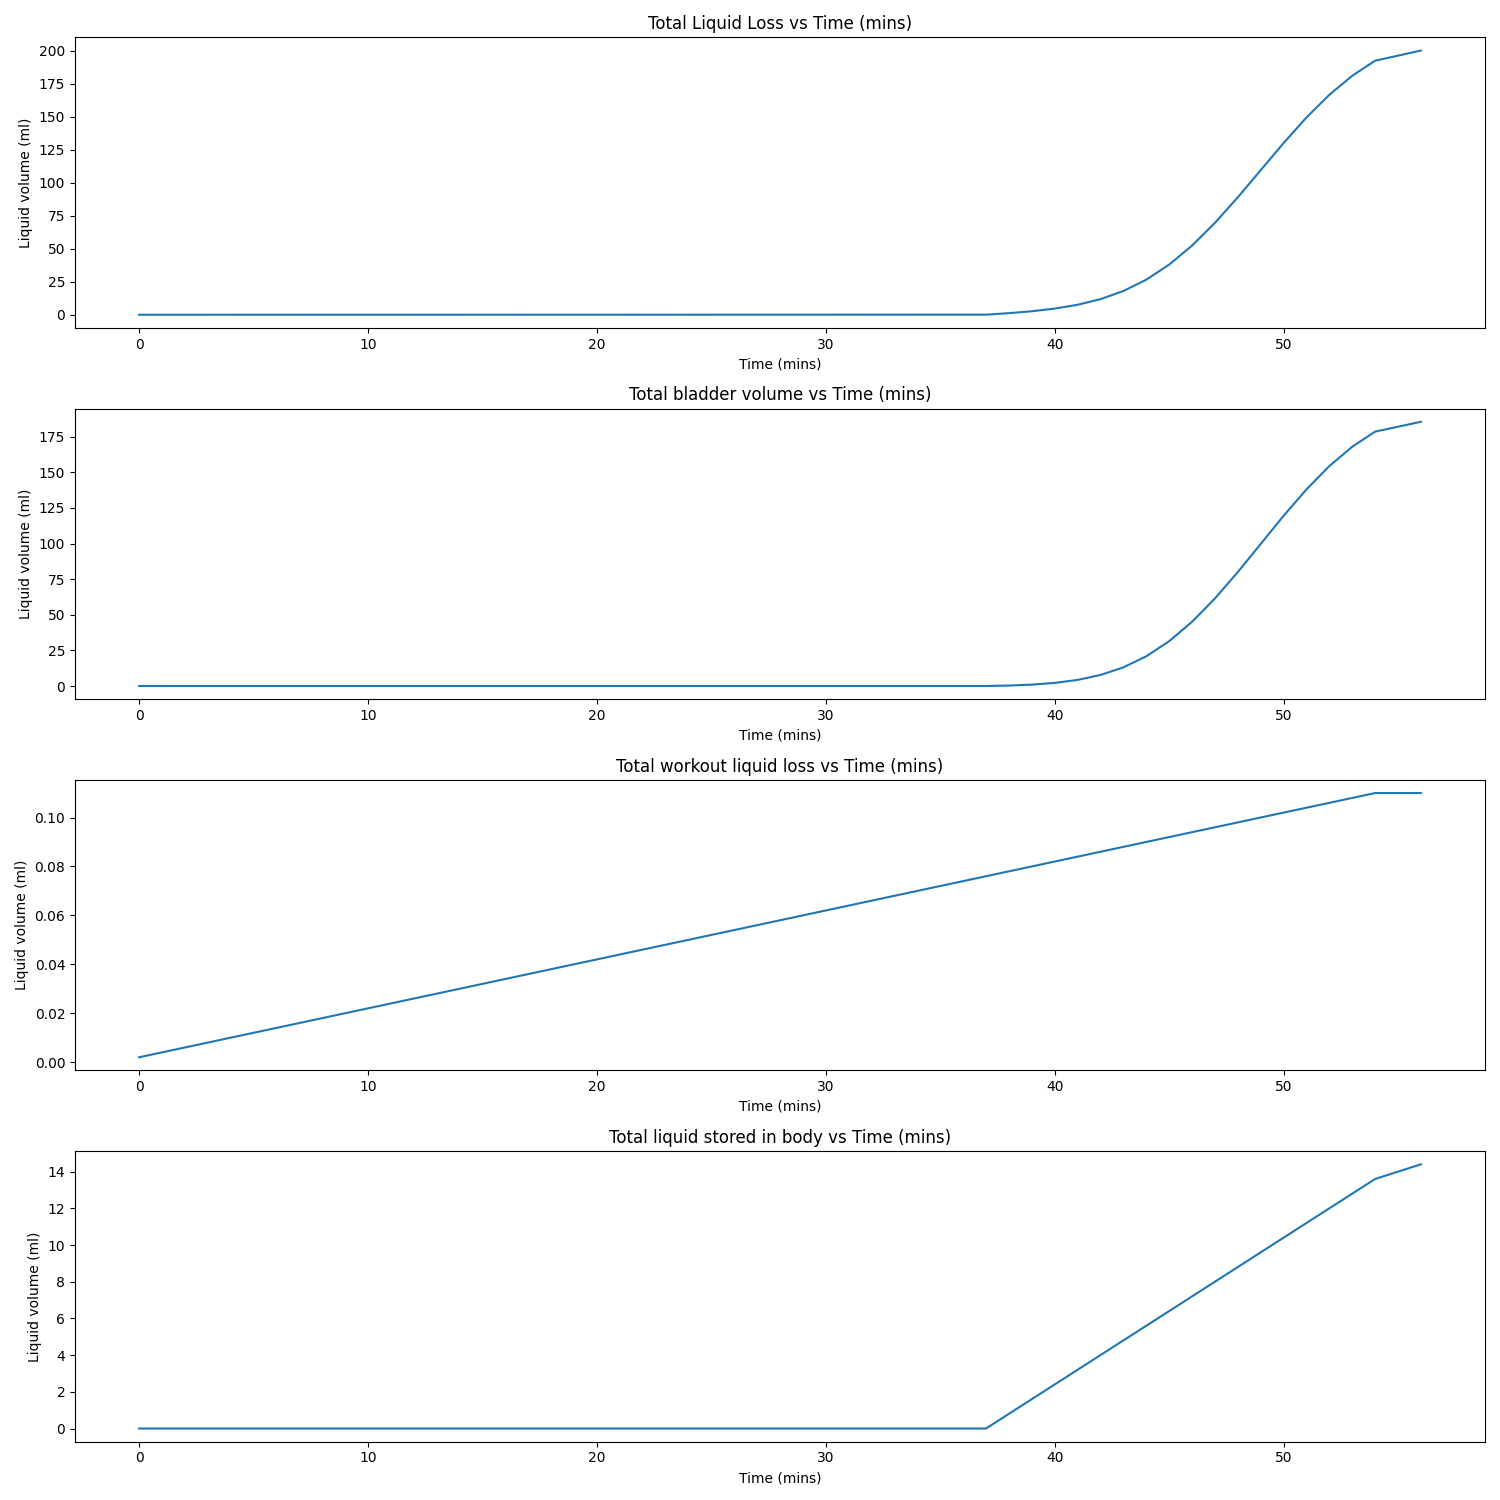
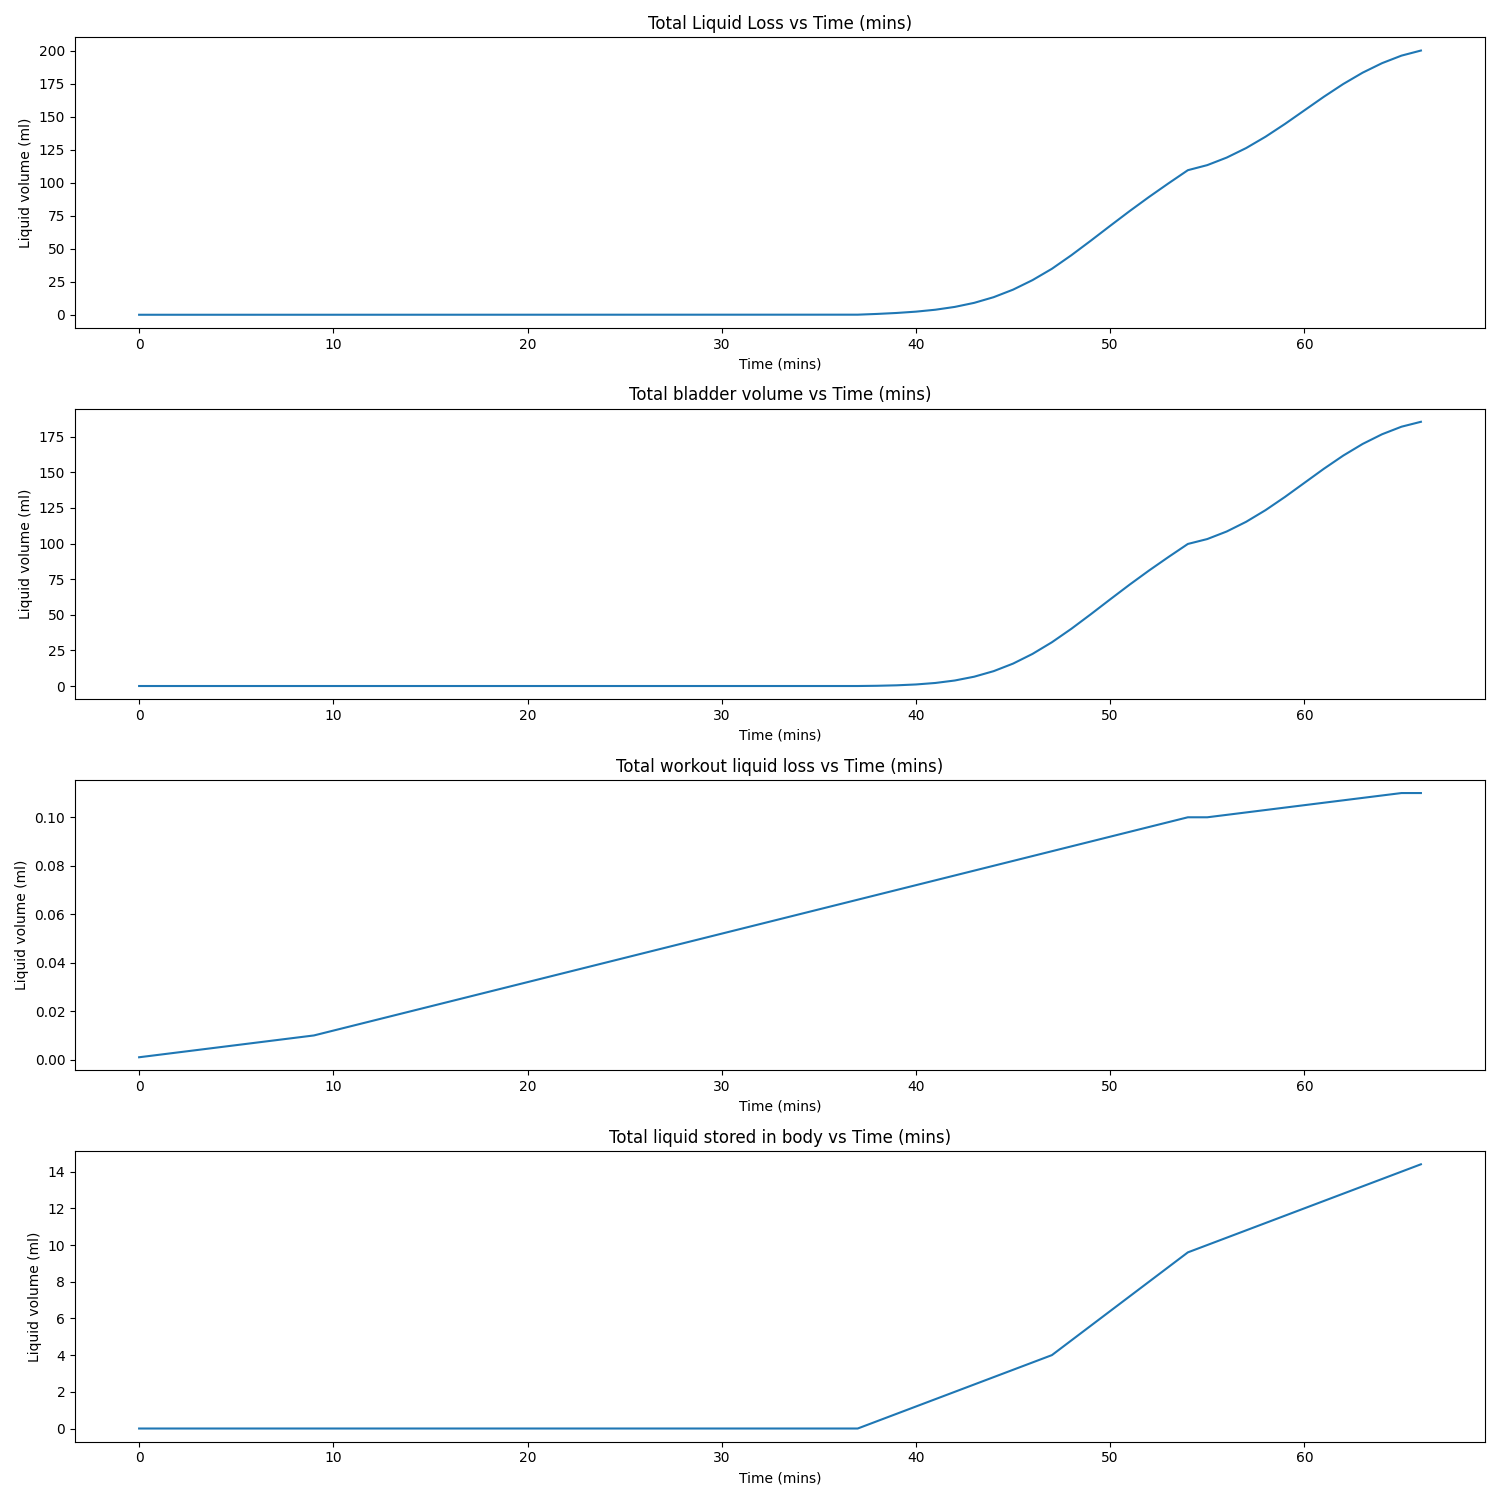
fixed fluidEvent class to handle micturition

diff --git a/event/FluidEvent.py b/event/FluidEvent.py
@@ -39,7 +39,7 @@ class FluidEvent:
         self.start = modelParameters.mu-(3*modelParameters.sigma)
         self.workoutIntensity = 0
 
-        self.currentBladderFillingLevel,self.currentBodyStorage, self.currentWorkoutLoss = 0,0,0
+        self.currentBladderFillingLevel,self.currentBladderLoss ,self.currentBodyStorage, self.currentWorkoutLoss = 0,0,0,0
         self.currentEventMins = 0
         self.eventHistory = FluidEventHistory()
         pass
@@ -94,6 +94,9 @@ class FluidEvent:
         else:
             self.currentBodyStorage += max(0,self.intake - self.getTotalLiquidLoss())
 
+    def micturition(self):
+        self.currentBladderFillingLevel = 0
+
     def updateCurrentBladderFillingLevels(self,t:int):
         """Find the total amount of liquid accumulated in the bladder at time t.
 
@@ -105,6 +108,19 @@ class FluidEvent:
             self.currentBladderFillingLevel += self.bladderFilling(t)
         else:
             self.currentBladderFillingLevel += max(0,self.intake - self.getTotalLiquidLoss())
+
+    def updateCurrentBladderLoss(self,t:int):
+        """Find the total amount of liquid lost to bladder at time t.
+
+        Args:
+            t (int):  Time in minutes after the drinking the liquid. AKA time after fluidevent started.
+
+        """
+        if self.getTotalLiquidLoss() + self.bladderFilling(t) <= self.intake:
+            self.currentBladderLoss += self.bladderFilling(t)
+        else:
+            self.currentBladderLoss += max(0,self.intake - self.getTotalLiquidLoss())
+        
         
     def updateCurrentWorkoutLoss(self,intensityLevel:int=0):
         """Find the total amount of water lost in workout.
@@ -123,7 +139,7 @@ class FluidEvent:
         Returns:
             float: The total amount of fluid take out by body so far
         """
-        return self.currentBladderFillingLevel + self.currentBodyStorage + self.currentWorkoutLoss
+        return self.currentBladderLoss + self.currentBodyStorage + self.currentWorkoutLoss
 
     def isFluidEventFinished(self)->bool:
         """Returns True if body has finished processing the fluid.
@@ -138,12 +154,14 @@ class FluidEvent:
         """
         self.eventHistory.bladderFillingLevels = np.append(self.eventHistory.bladderFillingLevels,
                                                    self.currentBladderFillingLevel)
+        self.eventHistory.bladderLoss = np.append(self.eventHistory.bladderLoss,
+                                                   self.currentBladderLoss)
         self.eventHistory.bodyStorage = np.append(self.eventHistory.bodyStorage,self.currentBodyStorage)
         self.eventHistory.workoutLoss = np.append(self.eventHistory.workoutLoss,self.currentWorkoutLoss)
         self.eventHistory.totalLiquidLoss = np.append(self.eventHistory.totalLiquidLoss,self.getTotalLiquidLoss())
         self.eventHistory.isFinished = self.isFluidEventFinished()
 
-    def forward(self)->FluidEventHistory:
+    def forward(self,micturtion:bool = False)->FluidEventHistory:
         """Process the FluidEvent for a single mintue.
            Returns FluidEvent history
         Returns:
@@ -152,7 +170,13 @@ class FluidEvent:
         self.currentEventMins += 1
         self.updateCurrentBodyStorage(self.currentEventMins)
 
+        # correct ordering
         self.updateCurrentBladderFillingLevels(self.currentEventMins)
+        if micturtion: #updateCurrentBladderLoss is independent of micturtion. 
+            self.micturition()
+        self.updateCurrentBladderLoss(self.currentEventMins)
+
+
 
         self.updateCurrentWorkoutLoss(self.workoutIntensity)
 
@@ -173,20 +197,33 @@ if '__main__' == __name__:
     bladderFillings = []
     totalFillings  = []
     for t in range(1440):
-        eventHistory = event.forward()
+        if t == 50:
+            eventHistory = event.forward(micturtion=True)
+        else:
+            eventHistory = event.forward()
+        # eventHistory = event.forward()
         if eventHistory.isFinished:
             print(f'finished:{t}')
             break
-    # fig,axes = plt.subplots(4,1)
-    # axes[0].plot(eventHistory.totalLiquidLoss[:60])
-    # axes[1].plot(eventHistory.bladderFillingLevels[:60])
-    # axes[2].plot(eventHistory.workoutLoss[:60])
-    # axes[3].plot(eventHistory.bodyStorage[:60])
-    # plt.savefig('test.png')
-    print(eventHistory.totalLiquidLoss[-1])
-    print(eventHistory.bladderFillingLevels[-1])
-    print(eventHistory.workoutLoss[-1])
-    print(eventHistory.bodyStorage[-1])
+
+    fig,axes = plt.subplots(5,1,figsize=(15,15))
+
+    l = [eventHistory.totalLiquidLoss[:],eventHistory.bladderLoss[:],eventHistory.bladderFillingLevels[:], eventHistory.workoutLoss[:],eventHistory.bodyStorage[:]]
+    title = ['Total Liquid Loss vs Time (mins)','Total liquid lost to bladder vs Time (mins)','Total bladder volume vs Time (mins)', 'Total workout liquid loss vs Time (mins)', 'Total liquid stored in body vs Time (mins)']
+    for i, ax in enumerate(axes):
+        ax.plot(l[i])
+        ax.set_title(title[i])
+        ax.set_ylabel('Liquid volume (ml)')
+        ax.set_xlabel('Time (mins)')
+        plt.tight_layout()
+    
+
+    plt.savefig('test.png')
+    print(eventHistory.totalLiquidLoss[-1]) #100
+    print(eventHistory.bladderLoss[-1]) #x
+    print(eventHistory.bladderFillingLevels[47:52]) #x
+    # print(eventHistory.workoutLoss[-1])
+    # print(eventHistory.bodyStorage[-1])
     # print(eventHistory.isEventFinished)
     # print(eventHistory.bladderFillingLevels.tolist())
     

diff --git a/eventhandler/EventHandler.py b/eventhandler/EventHandler.py
@@ -83,13 +83,18 @@ class EventHandler(FluidEvent):
         if eventHistory.isFinished:
             self.deadEvents.append(fluidEvent)
             self.liveEvents.remove(fluidEvent)
-     
+    
+    def emptyBaldder(self,event:FluidEvent):
+        
+        pass 
        
     def forward(self):
+        shouldUpdateEventHistory = len(self.liveEvents)
         for event in self.liveEvents:
             self.handleSingleEvent(event)
         #after going through the live-events once; update the event history once 
-        self.updateEventHistory()
+        if shouldUpdateEventHistory:
+            self.updateEventHistory()
         return self.eventHistory
 
     
@@ -98,21 +103,25 @@ if __name__ == '__main__':
     handler = EventHandler()
     fluidEvent = FluidEvent(100)
     fluidEvent2 = FluidEvent(100)
-    handler.addEvent(fluidEvent)
-    handler.addEvent(fluidEvent2)
+    # handler.addEvent(fluidEvent)
+    # handler.addEvent(fluidEvent2)
     
     # handler.forward()
     for t in range(1440):
+        print(t)
+        if t ==0:
+            handler.addEvent(fluidEvent)
+        if t == 10:
+            handler.addEvent(fluidEvent2)
         eventHistory = handler.forward()
-        if eventHistory.isFinished:
-            print(f'finished:{eventHistory.totalLiquidLoss[-1]},{eventHistory.bladderFillingLevels[-1]}', {eventHistory.workoutLoss[-1]},{eventHistory.bodyStorage[-1]})
-            break
+        print(f'finished:{t},{eventHistory.totalLiquidLoss[-1]},{eventHistory.bladderFillingLevels[-1]}', {eventHistory.workoutLoss[-1]},{eventHistory.bodyStorage[-1]})
+
     for e in handler.deadEvents:
         print(e.eventHistory.totalLiquidLoss[-1])
 
     fig,axes = plt.subplots(4,1,figsize=(15,15))
 
-    l = [eventHistory.totalLiquidLoss[:60],eventHistory.bladderFillingLevels[:60], eventHistory.workoutLoss[:60],eventHistory.bodyStorage[:60]]
+    l = [eventHistory.totalLiquidLoss[:],eventHistory.bladderFillingLevels[:], eventHistory.workoutLoss[:],eventHistory.bodyStorage[:]]
     title = ['Total Liquid Loss vs Time (mins)', 'Total bladder volume vs Time (mins)', 'Total workout liquid loss vs Time (mins)', 'Total liquid stored in body vs Time (mins)']
     for i, ax in enumerate(axes):
         ax.plot(l[i])

diff --git a/eventhistory/FluidEventHistory.py b/eventhistory/FluidEventHistory.py
@@ -3,6 +3,7 @@ import numpy as np
 @dataclass
 class FluidEventHistory:
     bladderFillingLevels: np.ndarray = np.array([])
+    bladderLoss: np.ndarray = np.array([])
     bodyStorage : np.ndarray = np.array([])
     workoutLoss : np.ndarray = np.array([])
     totalLiquidLoss: np.ndarray = np.array([])
